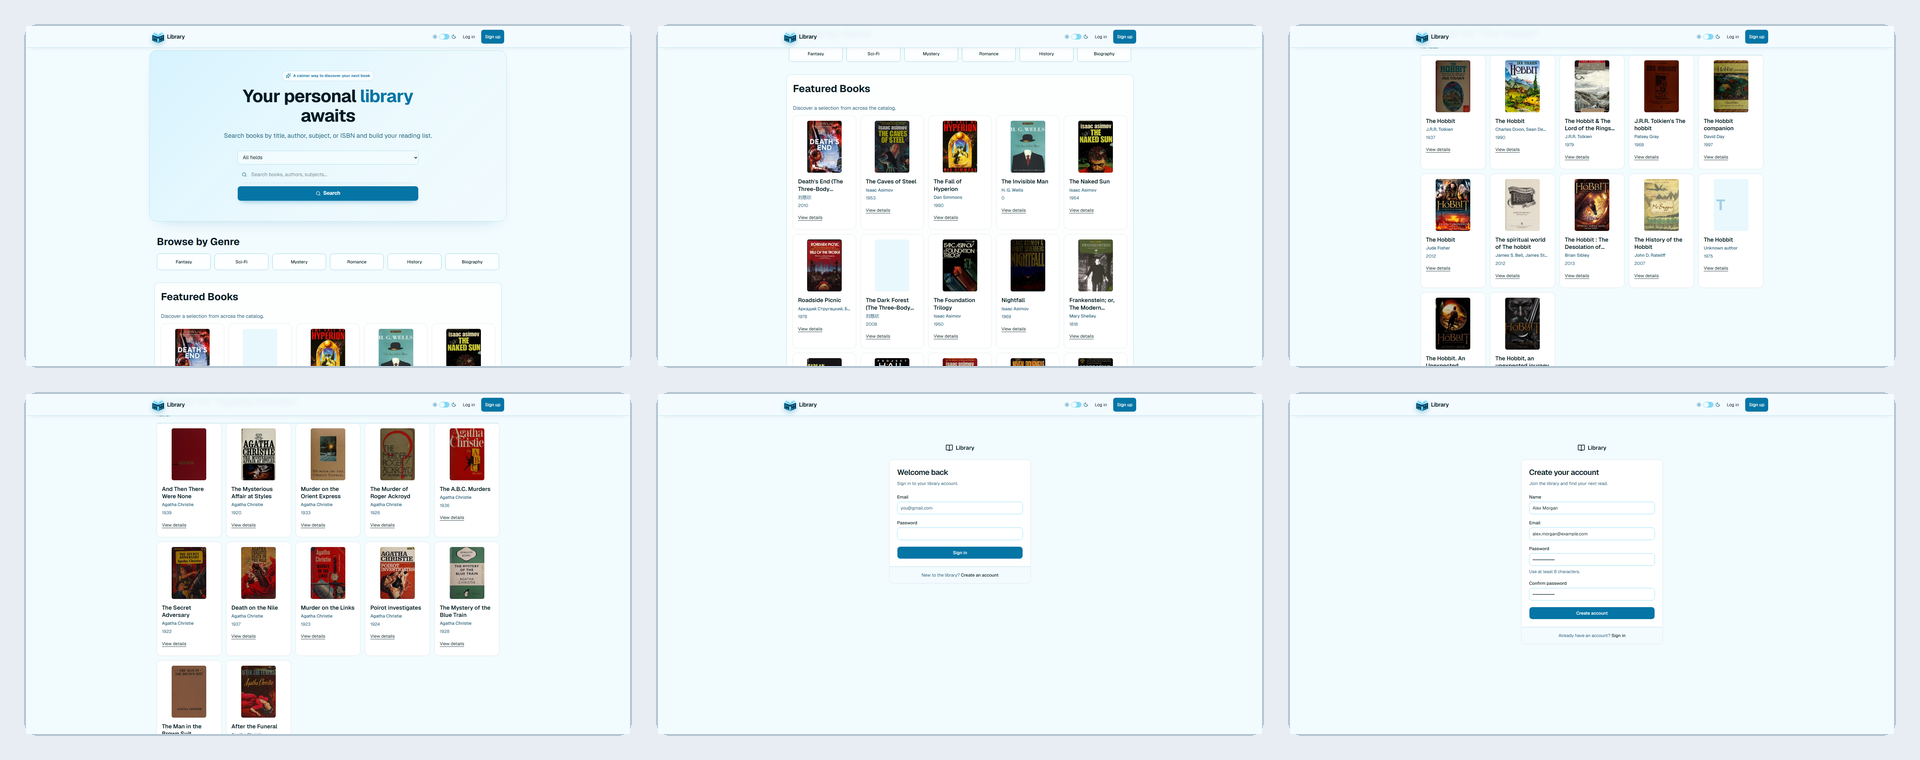
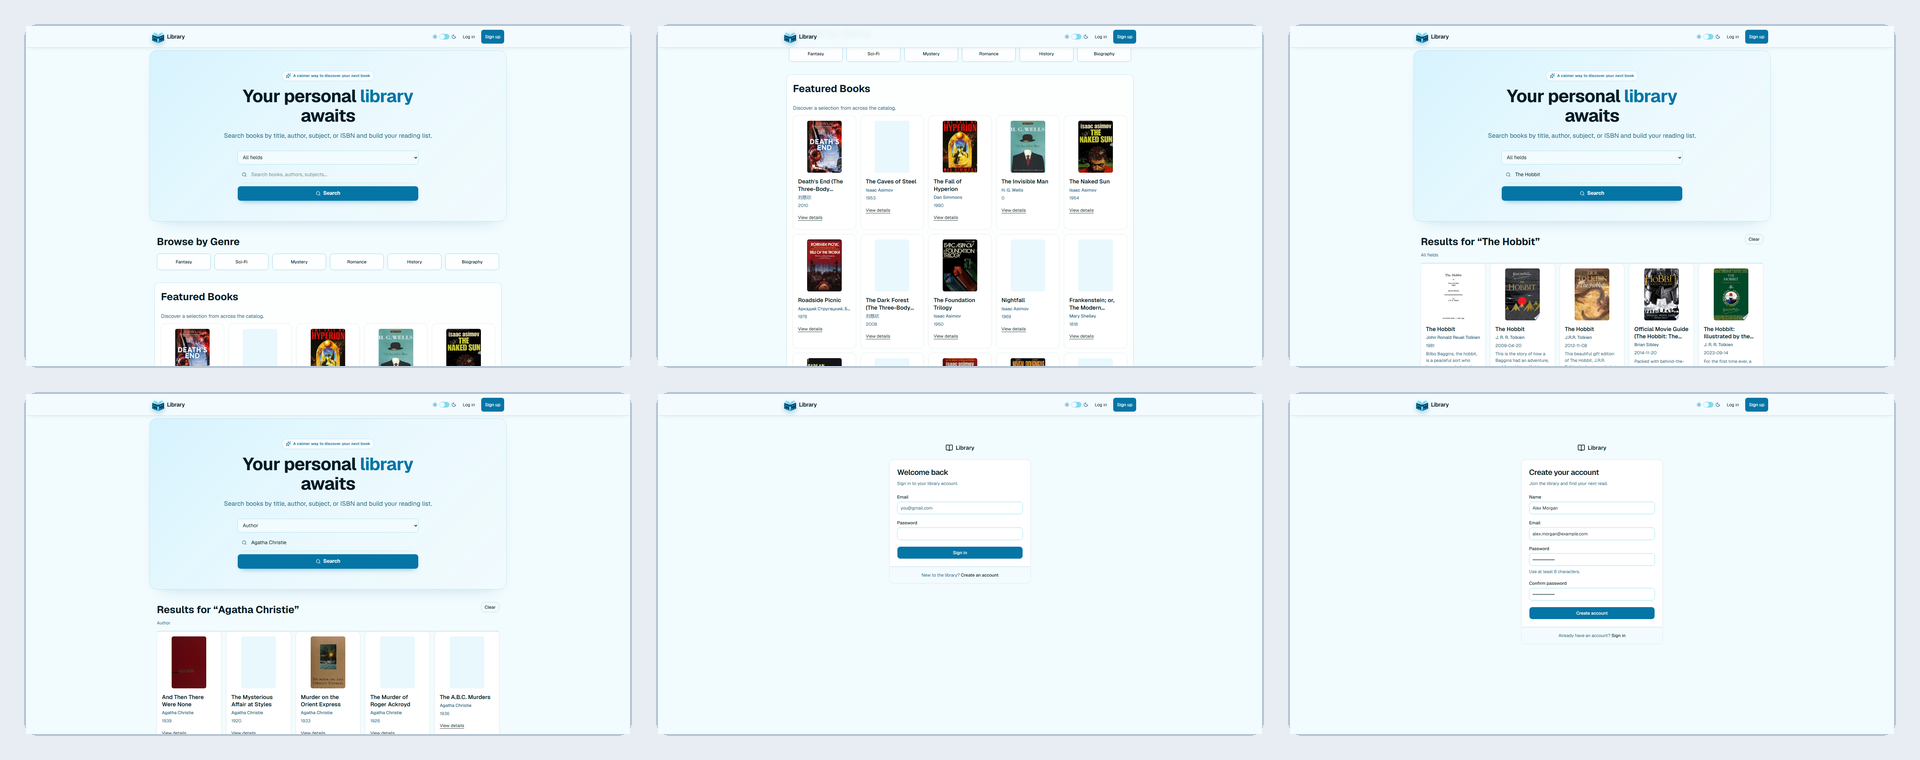
docs: add animated product walkthrough

diff --git a/README.md b/README.md
@@ -12,10 +12,10 @@ A modern React library application built with Vite, TypeScript, and Tailwind CSS
 
 ## Product Demo
 
-The walkthrough covers account creation, light and dark themes, catalog browsing,
-book loans and renewals, the wishlist, reading progress, and reservations.
+The walkthrough covers account creation and login, light and dark themes, catalog browsing,
+search filters, book requests, the wishlist, and reading progress.
 
-<video src="docs/assets/tramora-product-demo.mp4" controls width="100%"></video>
+![Tramora product walkthrough](docs/assets/tramora-product-demo.gif)
 
 [Open the live application](https://tramora.breakspacehub.com/)
 
@@ -25,8 +25,6 @@ book loans and renewals, the wishlist, reading progress, and reservations.
 - **Book Catalog** - Browse and search books
 - **Modern UI** - Built with Tailwind CSS and Radix UI primitives
 - **Testing** - Unit and integration tests with Jest + React Testing Library
-
-[![Watch the Tramora product walkthrough](docs/assets/tramora-product-demo-poster.png)](docs/assets/tramora-product-demo-poster.png)
 
 ## Getting Started
 
